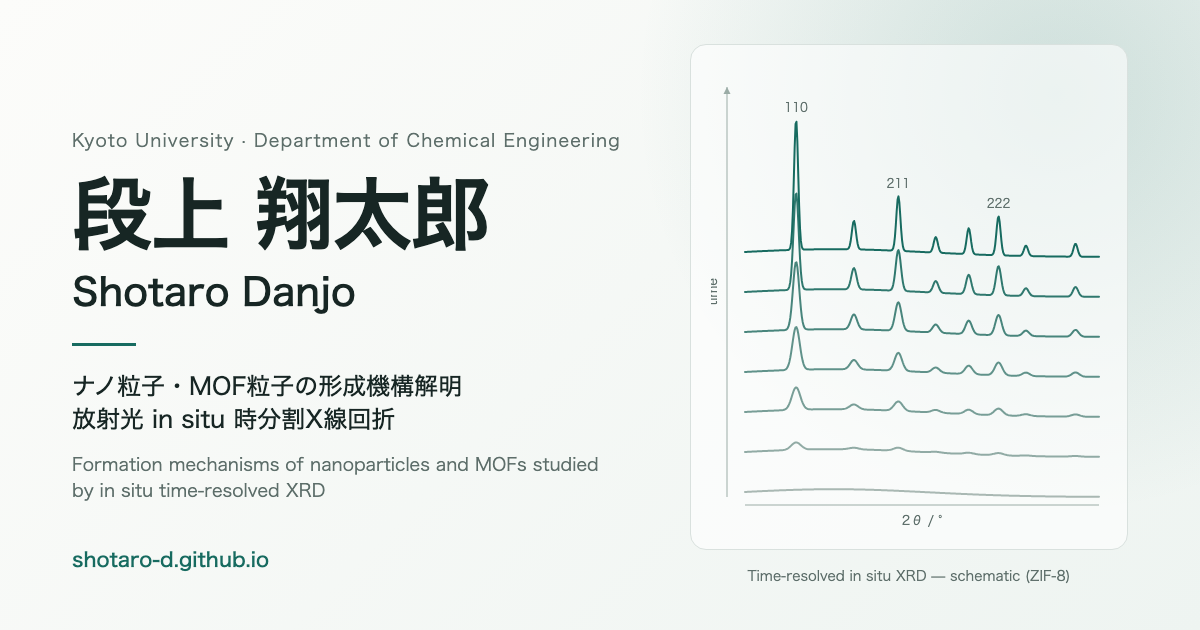
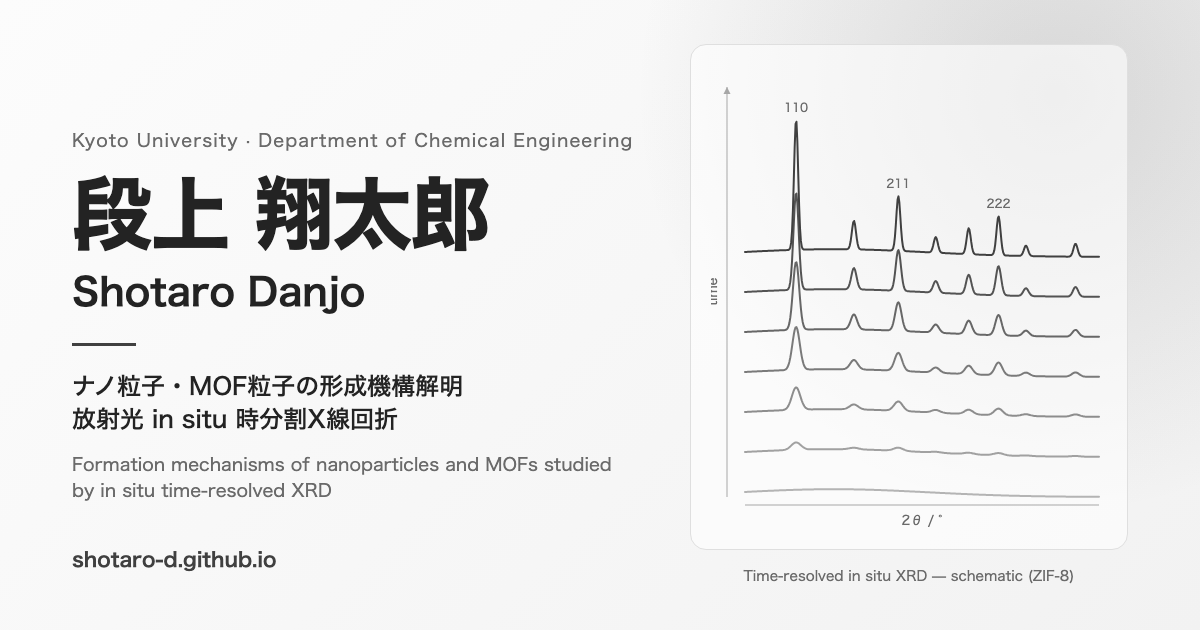
Change the site's base color from green to neutral gray
Every color variable in style.css (light and dark) is now a neutral
gray at about the same OKLab lightness as the green it replaces. The
link/button accent is a darker charcoal (#404040 light, #d4d4d4 dark)
so links stay distinct from muted text; all text contrast ratios are
equal to or higher than before. The theme-color meta tags, the favicon
and the OGP image follow the same palette. Update the sitemap lastmod
of the changed pages.

diff --git a/assets/css/style.css b/assets/css/style.css
@@ -2,43 +2,43 @@
 
 :root {
   color-scheme: light dark;
-  --ink: #172624;
-  --muted: #5d6e6a;
-  --paper: #fcfcfa;
-  --line: #d9e1de;
-  --field-border: #7a8b86;
-  --accent: #176b60;
-  --accent-dark: #10483f;
-  --pale: #eef4f1;
-  --header-bg: rgba(252, 252, 250, .76);
-  --hero-text: #3d514c;
-  --underline: #a0c7bd;
-  --selection-bg: #d4e9e2;
+  --ink: #232323;
+  --muted: #6a6a6a;
+  --paper: #fcfcfc;
+  --line: #dfdfdf;
+  --field-border: #868686;
+  --accent: #404040;
+  --accent-dark: #1a1a1a;
+  --pale: #f2f2f2;
+  --header-bg: rgba(252, 252, 252, .76);
+  --hero-text: #4c4c4c;
+  --underline: #bdbdbd;
+  --selection-bg: #dcdcdc;
   --button-text: #fff;
   --surface: rgba(255, 255, 255, .58);
-  --shadow-soft: 0 12px 32px rgba(24, 48, 43, .08);
-  --shadow-lift: 0 14px 28px rgba(14, 65, 56, .16);
-  --shadow-card: 0 1px 2px rgba(24, 48, 43, .1), 0 4px 10px rgba(24, 48, 43, .08), 0 14px 30px rgba(24, 48, 43, .14);
+  --shadow-soft: 0 12px 32px rgba(38, 38, 38, .08);
+  --shadow-lift: 0 14px 28px rgba(38, 38, 38, .16);
+  --shadow-card: 0 1px 2px rgba(38, 38, 38, .1), 0 4px 10px rgba(38, 38, 38, .08), 0 14px 30px rgba(38, 38, 38, .14);
   --max: 1000px;
   --gutter: 20px;
 }
 
 @media (prefers-color-scheme: dark) {
   :root {
-    --ink: #e8efeb;
-    --muted: #9baca6;
-    --paper: #121917;
-    --line: #33423d;
-    --field-border: #6b7f78;
-    --accent: #66cdb4;
-    --accent-dark: #a0ecd8;
-    --pale: #1b2824;
-    --header-bg: rgba(18, 25, 23, .76);
-    --hero-text: #c1d0ca;
-    --underline: #41675e;
-    --selection-bg: #214238;
-    --button-text: #0c1211;
-    --surface: rgba(34, 48, 43, .64);
+    --ink: #ededed;
+    --muted: #a7a7a7;
+    --paper: #171717;
+    --line: #3e3e3e;
+    --field-border: #7a7a7a;
+    --accent: #d4d4d4;
+    --accent-dark: #f5f5f5;
+    --pale: #252525;
+    --header-bg: rgba(23, 23, 23, .76);
+    --hero-text: #cccccc;
+    --underline: #5e5e5e;
+    --selection-bg: #3a3a3a;
+    --button-text: #111111;
+    --surface: rgba(44, 44, 44, .64);
     --shadow-soft: 0 12px 32px rgba(0, 0, 0, .2);
     --shadow-lift: 0 14px 28px rgba(0, 0, 0, .28);
     --shadow-card: inset 0 1px 0 rgba(255, 255, 255, .06), 0 2px 4px rgba(0, 0, 0, .45), 0 14px 30px rgba(0, 0, 0, .5);
@@ -630,7 +630,7 @@ a:hover {
   width: 100%;
   height: auto;
   border: 1px solid var(--line);
-  box-shadow: 0 1px 4px rgba(29, 41, 40, .08);
+  box-shadow: 0 1px 4px rgba(38, 38, 38, .08);
 }
 
 .post-media figcaption {
@@ -840,7 +840,7 @@ a:hover {
   width: 100%;
   height: auto;
   border: 1px solid var(--line);
-  box-shadow: 0 1px 4px rgba(29, 41, 40, .08);
+  box-shadow: 0 1px 4px rgba(38, 38, 38, .08);
 }
 
 .cover-art figcaption {
@@ -1366,7 +1366,7 @@ a:hover {
     overscroll-behavior: contain;
     padding: 1rem var(--gutter) 1.3rem;
     background: var(--paper);
-    box-shadow: 0 14px 24px rgba(24, 48, 43, .1);
+    box-shadow: 0 14px 24px rgba(38, 38, 38, .1);
     border-bottom: 1px solid var(--line);
     flex-direction: column;
     align-items: flex-start;

diff --git a/index.html b/index.html
@@ -19,8 +19,8 @@
   </script>
   <meta charset="utf-8">
   <meta name="viewport" content="width=device-width, initial-scale=1">
-  <meta name="theme-color" content="#fbfbf8" media="(prefers-color-scheme: light)">
-  <meta name="theme-color" content="#141917" media="(prefers-color-scheme: dark)">
+  <meta name="theme-color" content="#fbfbfb" media="(prefers-color-scheme: light)">
+  <meta name="theme-color" content="#181818" media="(prefers-color-scheme: dark)">
   <meta name="description" content="段上翔太郎（京都大学大学院 工学研究科 化学工学専攻 博士後期課程）の研究者ページ。マイクロリアクターの強混合場を利用したナノ粒子・MOF粒子の合成と，放射光を用いた液中時分割 in situ X線回折による粒子形成機構の解明に取り組んでいます。">
   <link rel="canonical" href="https://shotaro-d.github.io/">
   <link rel="alternate" hreflang="ja" href="https://shotaro-d.github.io/">

diff --git a/en/pdf-q-range-calculation.html b/en/pdf-q-range-calculation.html
@@ -18,8 +18,8 @@
   </script>
   <meta charset="utf-8">
   <meta name="viewport" content="width=device-width, initial-scale=1">
-  <meta name="theme-color" content="#fbfbf8" media="(prefers-color-scheme: light)">
-  <meta name="theme-color" content="#141917" media="(prefers-color-scheme: dark)">
+  <meta name="theme-color" content="#fbfbfb" media="(prefers-color-scheme: light)">
+  <meta name="theme-color" content="#181818" media="(prefers-color-scheme: dark)">
   <meta name="description" content="Check representative Bragg reflections and PDF real-space resolution from the lattice constant and Q range.">
   <link rel="canonical" href="https://shotaro-d.github.io/en/pdf-q-range-calculation.html">
   <link rel="alternate" hreflang="ja" href="https://shotaro-d.github.io/pdf-q-range-calculation.html">

diff --git a/pdf-q-range-calculation.html b/pdf-q-range-calculation.html
@@ -18,8 +18,8 @@
   </script>
   <meta charset="utf-8">
   <meta name="viewport" content="width=device-width, initial-scale=1">
-  <meta name="theme-color" content="#fbfbf8" media="(prefers-color-scheme: light)">
-  <meta name="theme-color" content="#141917" media="(prefers-color-scheme: dark)">
+  <meta name="theme-color" content="#fbfbfb" media="(prefers-color-scheme: light)">
+  <meta name="theme-color" content="#181818" media="(prefers-color-scheme: dark)">
   <meta name="description" content="格子定数とQ範囲からPDF測定での主要反射の収録可否を確認する計算ツール">
   <link rel="canonical" href="https://shotaro-d.github.io/pdf-q-range-calculation.html">
   <link rel="alternate" hreflang="ja" href="https://shotaro-d.github.io/pdf-q-range-calculation.html">

diff --git a/subscript-superscript.html b/subscript-superscript.html
@@ -19,8 +19,8 @@
   </script>
   <meta charset="utf-8">
   <meta name="viewport" content="width=device-width, initial-scale=1">
-  <meta name="theme-color" content="#fbfbf8" media="(prefers-color-scheme: light)">
-  <meta name="theme-color" content="#141917" media="(prefers-color-scheme: dark)">
+  <meta name="theme-color" content="#fbfbfb" media="(prefers-color-scheme: light)">
+  <meta name="theme-color" content="#181818" media="(prefers-color-scheme: dark)">
   <meta name="description" content="上付き・下付きのUnicode文字をコピーできる専用ページ">
   <link rel="canonical" href="https://shotaro-d.github.io/subscript-superscript.html">
   <link rel="alternate" hreflang="ja" href="https://shotaro-d.github.io/subscript-superscript.html">

diff --git a/light-energy-calculation.html b/light-energy-calculation.html
@@ -19,8 +19,8 @@
   </script>
   <meta charset="utf-8">
   <meta name="viewport" content="width=device-width, initial-scale=1">
-  <meta name="theme-color" content="#fbfbf8" media="(prefers-color-scheme: light)">
-  <meta name="theme-color" content="#141917" media="(prefers-color-scheme: dark)">
+  <meta name="theme-color" content="#fbfbfb" media="(prefers-color-scheme: light)">
+  <meta name="theme-color" content="#181818" media="(prefers-color-scheme: dark)">
   <meta name="description" content="波長と光子エネルギーを相互変換する計算ツール">
   <link rel="canonical" href="https://shotaro-d.github.io/light-energy-calculation.html">
   <link rel="alternate" hreflang="ja" href="https://shotaro-d.github.io/light-energy-calculation.html">

diff --git a/en/light-energy-calculation.html b/en/light-energy-calculation.html
@@ -19,8 +19,8 @@
   </script>
   <meta charset="utf-8">
   <meta name="viewport" content="width=device-width, initial-scale=1">
-  <meta name="theme-color" content="#fbfbf8" media="(prefers-color-scheme: light)">
-  <meta name="theme-color" content="#141917" media="(prefers-color-scheme: dark)">
+  <meta name="theme-color" content="#fbfbfb" media="(prefers-color-scheme: light)">
+  <meta name="theme-color" content="#181818" media="(prefers-color-scheme: dark)">
   <meta name="description" content="Calculator for converting between photon energy and wavelength">
   <link rel="canonical" href="https://shotaro-d.github.io/en/light-energy-calculation.html">
   <link rel="alternate" hreflang="ja" href="https://shotaro-d.github.io/light-energy-calculation.html">

diff --git a/en/subscript-superscript.html b/en/subscript-superscript.html
@@ -19,8 +19,8 @@
   </script>
   <meta charset="utf-8">
   <meta name="viewport" content="width=device-width, initial-scale=1">
-  <meta name="theme-color" content="#fbfbf8" media="(prefers-color-scheme: light)">
-  <meta name="theme-color" content="#141917" media="(prefers-color-scheme: dark)">
+  <meta name="theme-color" content="#fbfbfb" media="(prefers-color-scheme: light)">
+  <meta name="theme-color" content="#181818" media="(prefers-color-scheme: dark)">
   <meta name="description" content="A tool for copying Unicode superscript and subscript characters">
   <link rel="canonical" href="https://shotaro-d.github.io/en/subscript-superscript.html">
   <link rel="alternate" hreflang="ja" href="https://shotaro-d.github.io/subscript-superscript.html">

diff --git a/en/resources.html b/en/resources.html
@@ -19,8 +19,8 @@
   </script>
   <meta charset="utf-8">
   <meta name="viewport" content="width=device-width, initial-scale=1">
-  <meta name="theme-color" content="#fbfbf8" media="(prefers-color-scheme: light)">
-  <meta name="theme-color" content="#141917" media="(prefers-color-scheme: dark)">
+  <meta name="theme-color" content="#fbfbfb" media="(prefers-color-scheme: light)">
+  <meta name="theme-color" content="#181818" media="(prefers-color-scheme: dark)">
   <meta name="description" content="Useful tools for X-ray diffraction and related calculations">
   <link rel="canonical" href="https://shotaro-d.github.io/en/resources.html">
   <link rel="alternate" hreflang="ja" href="https://shotaro-d.github.io/resources.html">

diff --git a/en/presentations.html b/en/presentations.html
@@ -19,8 +19,8 @@
   </script>
   <meta charset="utf-8">
   <meta name="viewport" content="width=device-width, initial-scale=1">
-  <meta name="theme-color" content="#fbfbf8" media="(prefers-color-scheme: light)">
-  <meta name="theme-color" content="#141917" media="(prefers-color-scheme: dark)">
+  <meta name="theme-color" content="#fbfbfb" media="(prefers-color-scheme: light)">
+  <meta name="theme-color" content="#181818" media="(prefers-color-scheme: dark)">
   <meta name="description" content="Conference presentations by Shotaro Danjo">
   <link rel="canonical" href="https://shotaro-d.github.io/en/presentations.html">
   <link rel="alternate" hreflang="ja" href="https://shotaro-d.github.io/presentations.html">

diff --git a/en/post.html b/en/post.html
@@ -19,8 +19,8 @@
   </script>
   <meta charset="utf-8">
   <meta name="viewport" content="width=device-width, initial-scale=1">
-  <meta name="theme-color" content="#fbfbf8" media="(prefers-color-scheme: light)">
-  <meta name="theme-color" content="#141917" media="(prefers-color-scheme: dark)">
+  <meta name="theme-color" content="#fbfbfb" media="(prefers-color-scheme: light)">
+  <meta name="theme-color" content="#181818" media="(prefers-color-scheme: dark)">
   <meta name="description" content="Summaries of published research by Shotaro Danjo">
   <link rel="canonical" href="https://shotaro-d.github.io/en/post.html">
   <link rel="alternate" hreflang="ja" href="https://shotaro-d.github.io/post.html">

diff --git a/en/profile.html b/en/profile.html
@@ -19,8 +19,8 @@
   </script>
   <meta charset="utf-8">
   <meta name="viewport" content="width=device-width, initial-scale=1">
-  <meta name="theme-color" content="#fbfbf8" media="(prefers-color-scheme: light)">
-  <meta name="theme-color" content="#141917" media="(prefers-color-scheme: dark)">
+  <meta name="theme-color" content="#fbfbfb" media="(prefers-color-scheme: light)">
+  <meta name="theme-color" content="#181818" media="(prefers-color-scheme: dark)">
   <meta name="description" content="Profile of Shotaro Danjo, Kyoto University">
   <link rel="canonical" href="https://shotaro-d.github.io/en/profile.html">
   <link rel="alternate" hreflang="ja" href="https://shotaro-d.github.io/profile.html">
